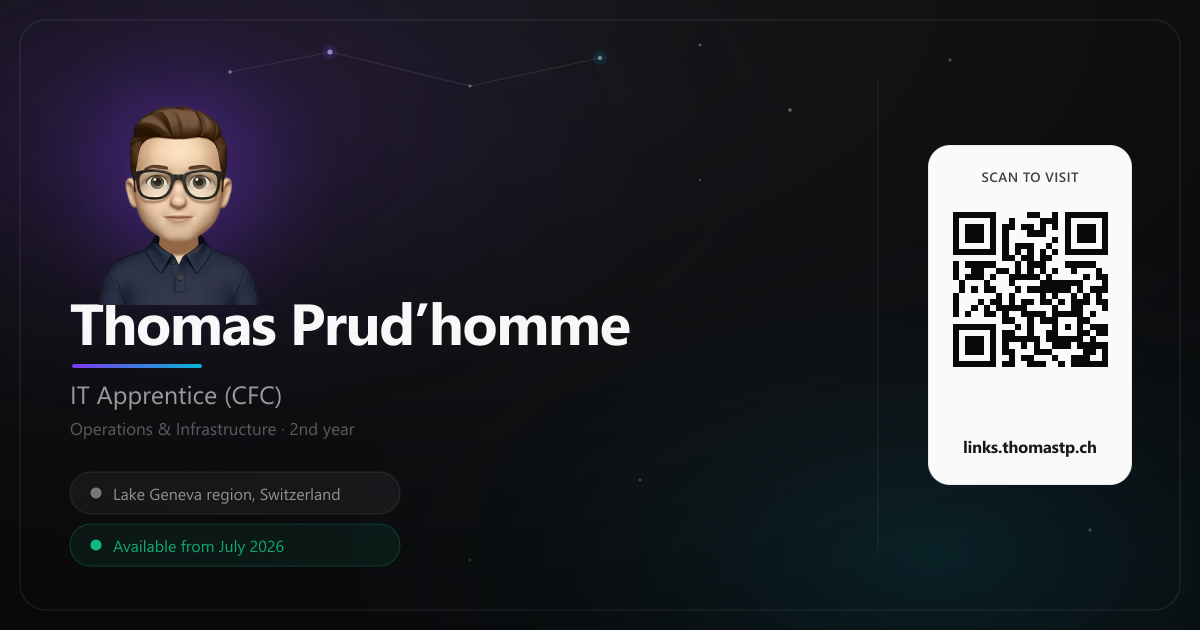
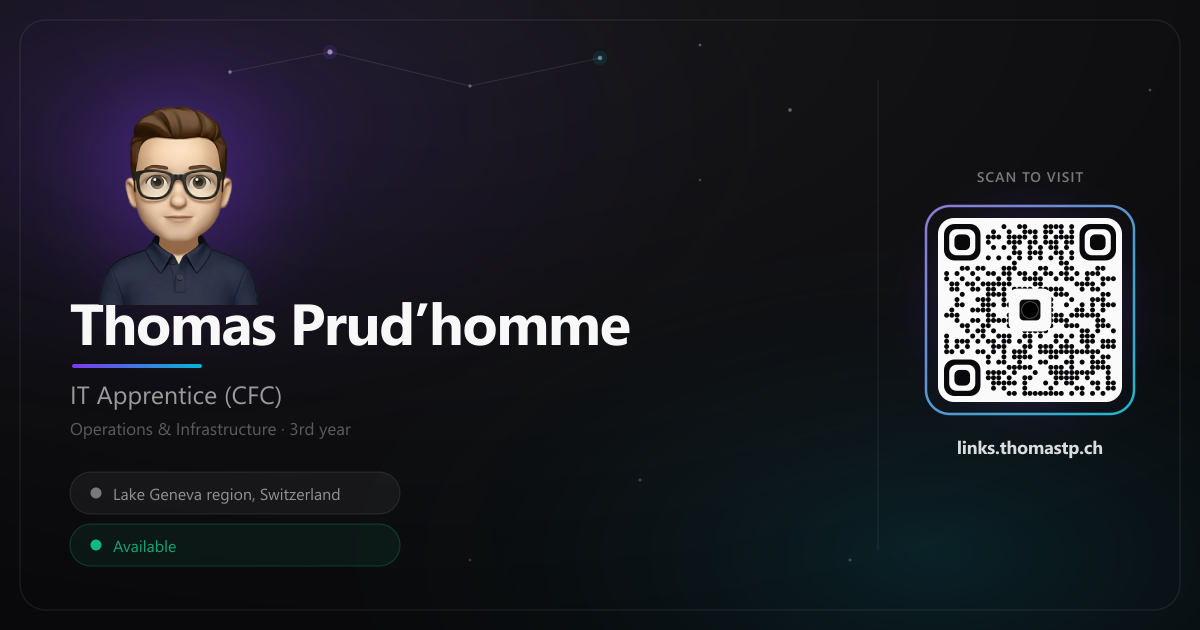
Redesign the OG image QR code and simplify copy
- Replace the plain white QR card with a custom-styled QR: rounded
  dot modules, rounded "eye" finder patterns, the site favicon
  embedded in the center (on its own white backing, within the ~30%
  tolerance of error-correction level H), and a purple->cyan gradient
  frame. Only the QR itself is white now; the scan label and domain
  text sit directly on the dark background instead of a large stark
  white rectangle. Verified the result still decodes correctly
  (jsqr) to the right URL before committing.
- Simplify the availability badge on the OG image to just
  "Disponible" / "Available" (was including the month and year).
- Update "2ème année" / "2nd year" to "3ème année" / "3rd year",
  both on the OG image and in the live site copy (translations.ts),
  to reflect the current school year.

Changed region(s): [[0.7708, 0.2111, 0.9558, 0.7841], [0.1542, 0.8444, 0.2467, 0.8746], [0.2467, 0.6635, 0.3083, 0.6937]]

diff --git a/src/i18n/translations.ts b/src/i18n/translations.ts
@@ -2,7 +2,7 @@ export const translations = {
   fr: {
     title: "Thomas Prud'homme",
     subtitle: 'Apprenti CFC Informaticien',
-    subtitleDetail: 'Exploitation & Infrastructure · 2ème année',
+    subtitleDetail: 'Exploitation & Infrastructure · 3ème année',
     location: 'Arc lémanique, Suisse',
     available: 'Disponible dès juillet 2026',
     links: {
@@ -26,7 +26,7 @@ export const translations = {
   en: {
     title: "Thomas Prud'homme",
     subtitle: 'IT Apprentice (CFC)',
-    subtitleDetail: 'Operations & Infrastructure · 2nd year',
+    subtitleDetail: 'Operations & Infrastructure · 3rd year',
     location: 'Lake Geneva region, Switzerland',
     available: 'Available from July 2026',
     links: {
